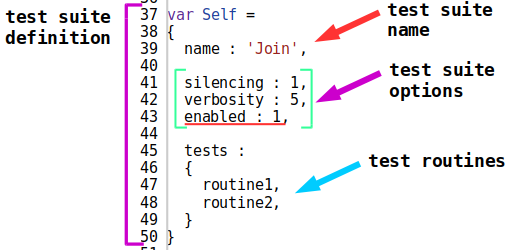
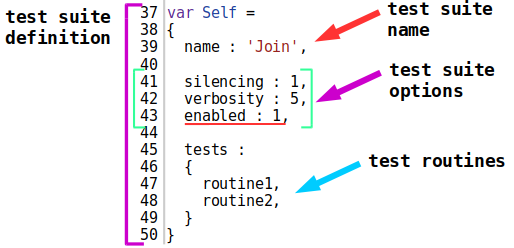
Add TestOption concept

diff --git a/doc/version.ukr/concept/TestOption.md b/doc/version.ukr/concept/TestOption.md
@@ -1,26 +1,52 @@
 # Опція запуска
 
-Параметр для керування процесом тестування, який передається команді запуску.
+Параметр для керування процесом тестування, який передається через команду запуску. Опція тестування застосовується до кожного тест сюіта, якщо в команді вказана директорія з тест файлами.
 
-Опція запуску вказується після введення команди утиліти. Вона має таке ж формулювання як і опція тест сюіта.
-
-Наприклад, в команді 
+Опція запуску вказується після введення команди утиліти. Наприклад, в команді 
 
 ```
 tst path/to/dir accuracy:1e-4
 ```
-указана опція `accuracy`, котра встановлює числове відхилення для перевірок з числовими аргументами.
+указана опція `accuracy`, котра встановлює числове відхилення для перевірок з числовими аргументами. Указана опція буде застосована до кожного тест сюіту в директорії `path/to/dir`.
 
-З повним переліком опцій запуску ви можете ознайомитись в [туторіалі](Help.md#Опції-запуску-та-опції-сюіта).
+Одночасно можна застосовувати декілька опцій запуска в команді. Наприклад, команда з опціями `verbosity` i `silencing` може виглядати так: 
+
+```
+tst path/to/dir verbosity:6 silencing:1
+```
+
+Ви можете більш детально ознайомитись з переліком опцій запуску перейшовши до [туторіалу](Help.md#Опції-запуску-та-опції-сюіта).
 
 # Опція тест сюіта
 
-Параметр для керування процесом тестування, який вказується в визначенні тест сюіта.
+Параметр для керування процесом тестування, який вказується в визначенні тест сюіта. Опції тест сюіта налаштовують тестування, котре проводиться за замовчуванням в даному тест сюіті. 
+
+Формулювання опцій запуску і опцій тест сюіта однакові. Опції тест сюіта мають нижчий пріоритет ніж опції запуску. Тому, якщо тест сюіт і команда запуску мають однакову опцію, то утиліта використовує опцію запуску.
 
 ![test.suite.options.png](../../images/test.suite.options.png)
 
+На рисунку показана частина коду з визначенням тест сюіта. Після указання імені в тест сюіті позначаються опції тестування. 
+
+Тест сюіт має три опції: `silencing`, `verbosity` i `enabled`. При виконанні команди тестування без указаних опцій рівень вербальності звіту буде `5` і звіт не міститиме вивід об'єкту тестування. При застосуванні команд з опціями `silencing` i `verbosity` утиліта використає значення, що указане в команді. Наприклад, при використанні команди 
+
+```
+tst path/to/dir verbosity:3
+```
+
+утиліта виведе звіт з рівнем вербальності `3`.
+
+Опція `enabled` (підкреслена червоним) присутня тільки в тест сюіті, вона призначена для вимкнення тест сюіту з тестування. Опція приймає значення 0 і 1: при 0 - тестування не виконується, 1 - виконується. За замовчуванням встанолено 1. Опція `enabled` має вищий пріорітет і змінити її можна тільки в файлі.
+
 # Опція тест рутини
 
-Параметр для керування процесом тестування, який вказується в визначенні тест рутини.
+Параметр для керування процесом тестування в окремій тест рутині.
+
+Для більш точного налаштування процесу тестування використовуються опції тест рутин. При застосуванні опцій тест рутин потрібно врахувати призначення, об'єм і види тест перевірок в тест рутині. Опції тест рутини мають вищий пріоритет ніж опції тест сюіта і опції запуска. Тому, зміна значень в тест рутині можлива тільки через зміну значень в файлі.
 
 ![test.routine.options.png](../../images/test.routine.options.png)
+
+На приведеному рисунку показана рутина `routine1`. Після визначення тест рутини в рядках 6-32, в рядках 33-34 указуються опції тест рутини: `timeOut` i `accuracy`. Опція тест рутини вказується через крапку після назви рутини.
+
+Застосування команди з опцією `accuracy` або `routineTimeOut` не змінить налаштування рутини `routine1`.
+
+[Повернутись до змісту](../README.md#Концепції)

diff --git a/doc/version.ukr/README.md b/doc/version.ukr/README.md
@@ -54,17 +54,17 @@
 <details><summary><a href="./concept/TestOption.md#Опція-запуска">
       Опція запуска
   </a></summary>
-  Параметр для керування процесом тестування, який передається команді запуску.
+  Параметр для керування процесом тестування, який передається через команду запуску. Опція тестування застосовується до всіх тест сюітів, якщо в команді вказана директорія з тест файлами.
 </details>
 <details><summary><a href="./concept/TestOption.md#Опція-тест-сюіта">
       Опція тест сюіта
   </a></summary>
-  Параметр для керування процесом тестування, який вказується в визначенні тест сюіта.
+  Параметр для керування процесом тестування, який вказується в визначенні тест сюіта. Опції тест сюіта налаштовують тестування, котре проводиться за замовчуванням в даному тест сюіті. 
 </details>
 <details><summary><a href="./concept/TestOption.md#Опція-тест-рутини">
       Опція тест рутини
   </a></summary>
-  Параметр для керування процесом тестування, який вказується в визначенні тест рутини.
+  Параметр для керування процесом тестування в окремій тест рутині.
 </details>
 
 
